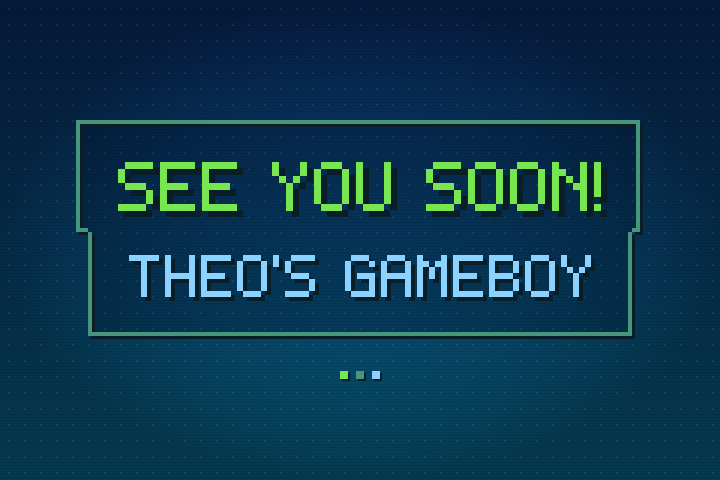
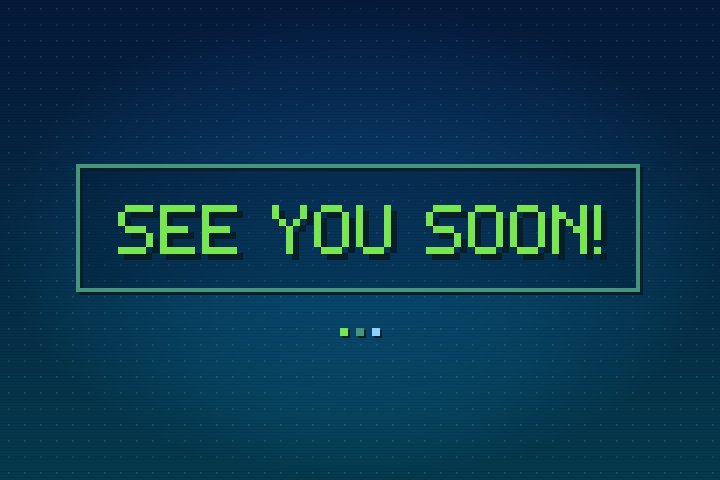
Kid mode: drop the title from the picker; shut-down screen is one framed line
Claude-Session: https://claude.ai/code/session_01UZ1hXzW3Zc1ei7AfAkn3vZ

Changed region(s): [[0.0917, 0.25, 0.9167, 0.7188], [0.4583, 0.75, 0.55, 0.8125]]

diff --git a/kid/make-bootlogo.py b/kid/make-bootlogo.py
@@ -54,13 +54,14 @@ for y in range(0,H,3):
         r,g,b=px_[x,y]; px_[x,y]=(int(r*.93),int(g*.93),int(b*.93))
 import sys
 t1=sys.argv[1] if len(sys.argv)>1 else "THEO'S"
-t2=sys.argv[2] if len(sys.argv)>2 else "GAMEBOY"
+t2=sys.argv[2] if len(sys.argv)>2 else "GAMEBOY"  # "" for a single framed line
 OUTFILE=sys.argv[3] if len(sys.argv)>3 else 'bootlogo.png'
 p1=max([p for p in range(6,17) if text_w(t1,p)<=520] or [6])
-p2=min(9,max([p for p in range(4,10) if text_w(t2,p)<=480] or [4]))
+p2=min(9,max([p for p in range(4,10) if text_w(t2,p)<=480] or [4])) if t2 else 1
 w1,w2=text_w(t1,p1),text_w(t2,p2)
 h1,h2=7*p1,7*p2
 gap=44
+if not t2: h2=0; gap=0
 total=h1+gap+h2
 y1=(H-total)//2-10; y2=y1+h1+gap
 x1=(W-w1)//2; x2=(W-w2)//2
@@ -68,6 +69,7 @@ x1=(W-w1)//2; x2=(W-w2)//2
 G=4; pad=40
 boxA=(x1-pad, y1-pad, x1+w1+pad, y1+h1+gap//2)
 boxB=(x2-pad, y1+h1+gap//2, x2+w2+pad, y2+h2+pad)
+if not t2: boxA=(x1-pad, y1-pad, x1+w1+pad, y1+h1+pad); boxB=boxA
 def inside(px,py):
     for (a,b,c,e) in (boxA,boxB):
         if a<=px<c and b<=py<e: return True
@@ -100,7 +102,7 @@ for cy in range(1,rows-1):
             if any(border(cx+dx,cy+dy) for dx,dy in ((1,0),(-1,0),(0,1),(0,-1),(1,1),(-1,-1),(1,-1),(-1,1))):
                 pass
 draw_text(d,t1,x1,y1,p1,GREEN,SH,6)
-draw_text(d,t2,x2,y2,p2,BLUE,SH,4)
+if t2: draw_text(d,t2,x2,y2,p2,BLUE,SH,4)
 dy_=boxB[3]+34; s_=8
 for i,col in enumerate((GREEN,OUT,BLUE)):
     X=W//2-(3*s_+2*s_)//2+i*2*s_

diff --git a/module/muxkid.c b/module/muxkid.c
@@ -278,12 +278,6 @@ static void build_ui(void) {
     const int sw = device.mux.width;
     const int sh = device.mux.height;
 
-    // Title, top left: the logo's words in their colours.
-    lv_obj_t *title = make_label(ui_screen, 3, KID_COL_GREEN);
-    lv_label_set_recolor(title, true);
-    lv_label_set_text(title, "THEO'S #8CD2FF GAMEBOY#");
-    lv_obj_align(title, LV_ALIGN_TOP_LEFT, sw * 4 / 100, sh * 6 / 100);
-
     // Shut Down button, top right. Up selects it, A asks to confirm.
     btn_power = make_panel(ui_screen, 9 * 6 * 2 + 28, 7 * 2 + 22);
     lv_obj_align(btn_power, LV_ALIGN_TOP_RIGHT, -sw * 4 / 100, sh * 4 / 100);
